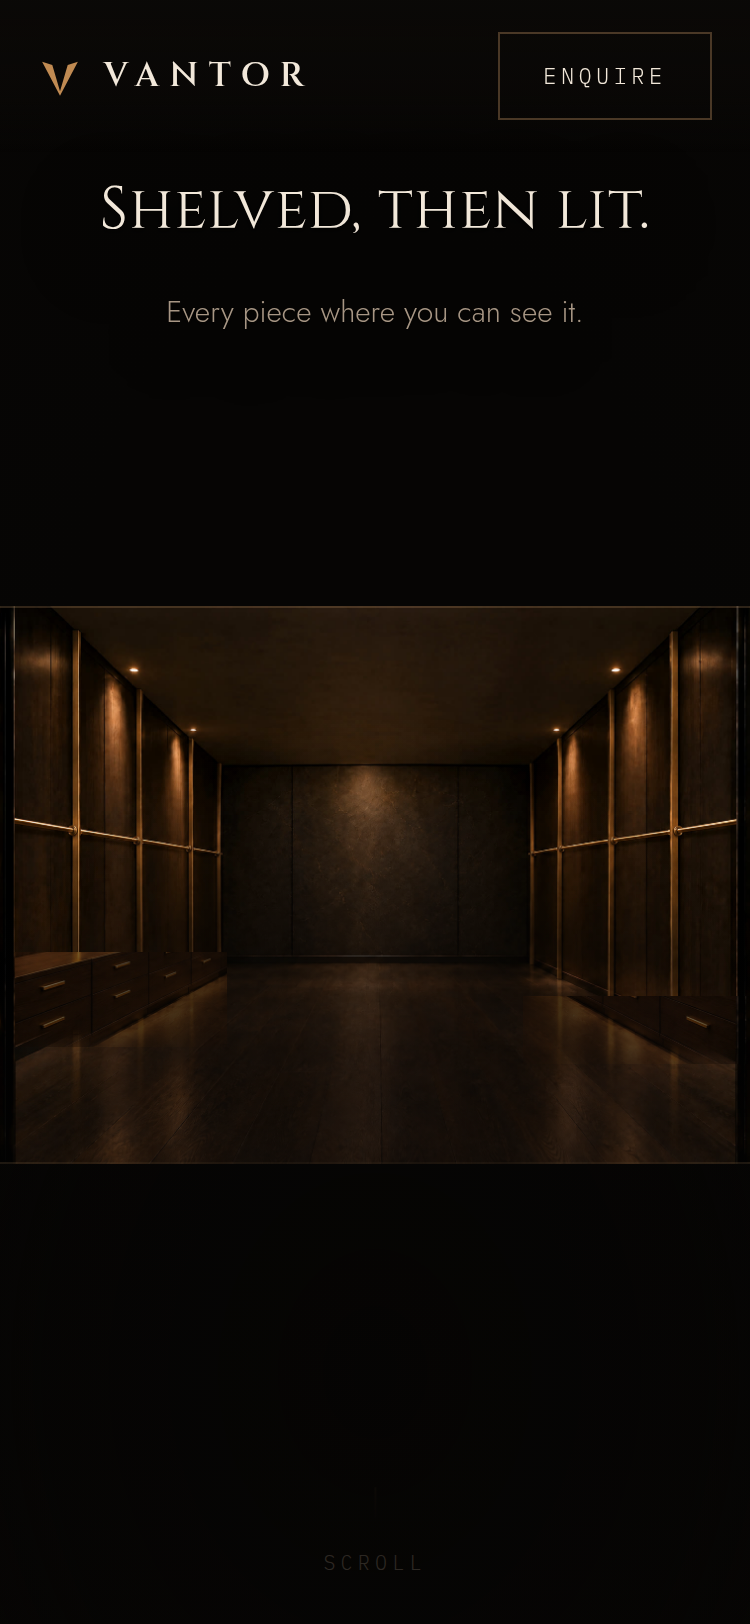
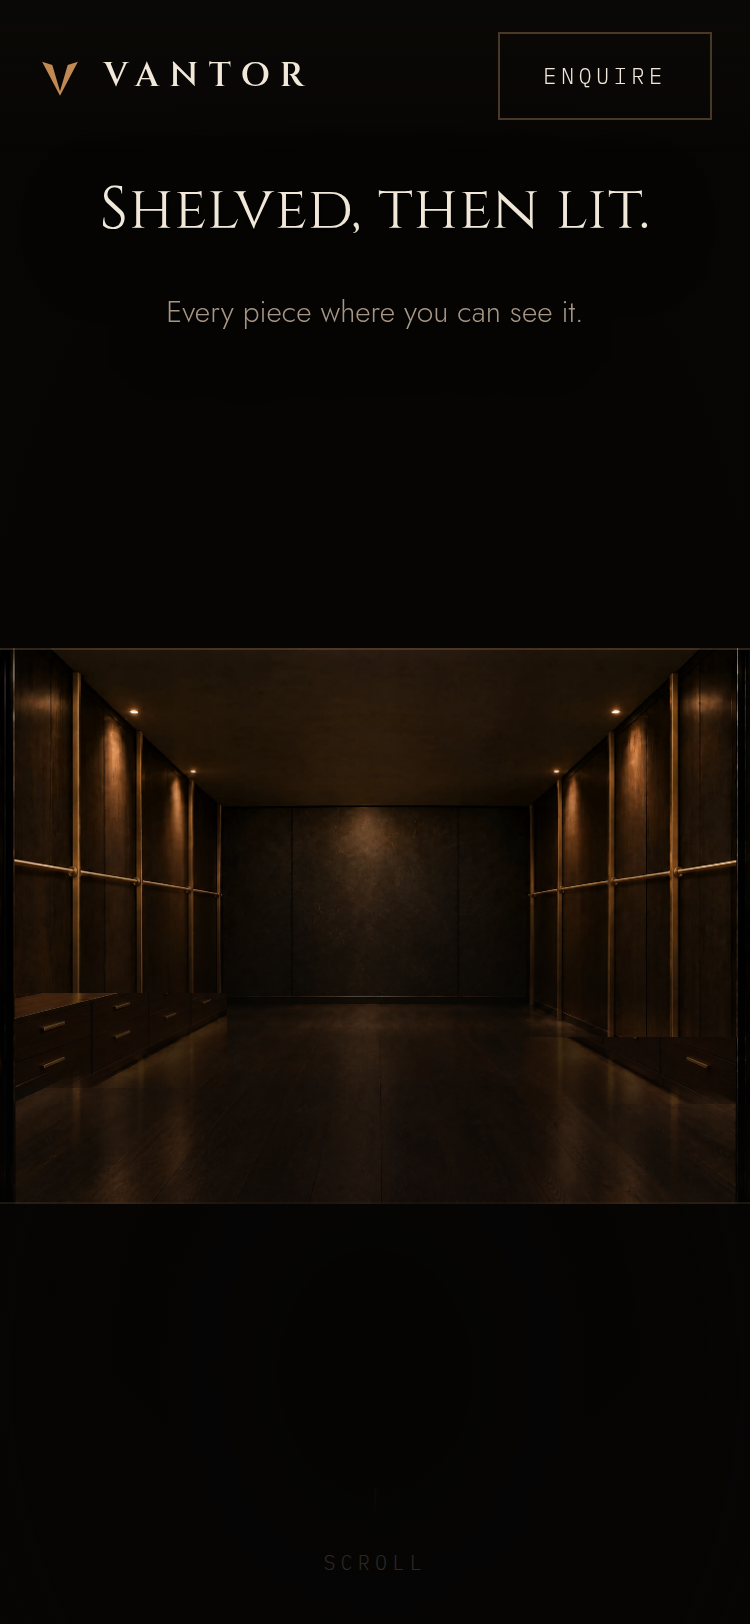
Close the hero on the VANTOR mark instead of a jacket count
The last beat now carries the V mark, VANTOR JACKETS set under it as a wordmark,
and the line the brand actually sells on. Tracking there is a wordmark's, wider
than the sentence headings above it, which is what makes it read as a mark
rather than one more caption. The mark lands first, then the wordmark, then the
line and the button, so the lockup assembles the way the room did.

The mark made the block 46px taller and the short phones lost the clearance they
had just been tuned for: 375 by 667 and 360 by 640 both ran the button back into
the top of the frame. The frame is dropped further on portrait to match, and the
mark set smaller on the shortest screens, so every phone clears both the nav and
the room again: 41px at 390 by 844, 32 at 375 by 667, 24 at 360 by 640.

The uppercase is applied in CSS, so the visually hidden copy the screen readers
actually read is left in sentence case, since some of them spell a CSS
uppercased string out letter by letter.

Measured after the change: one line at every width from 1440 down to 360 with no
overflow; contrast at every band's worst frame 4.95, 9.28, 10.35 and 9.68;
no beat skippable at 360px; reduced motion cold and live, rotation, the form,
the touch targets and all four viewports clean.

Claude-Session: https://claude.ai/code/session_01WyWRnk21ryLELjw3uFj7fK

diff --git a/site/index.html b/site/index.html
@@ -185,6 +185,17 @@ a{color:inherit}
 #b3 .soft{position:absolute;inset:0;filter:blur(11px);opacity:calc(1 - var(--k,0));pointer-events:none}
 #b3 .sharp{opacity:var(--k,0)}
 /* entrance (e) staged settle, band 4: three arrivals in one band */
+/* The closing beat is the brand lockup: the mark lands, the wordmark sets
+   under it, then the line and the button. Tracking here is a wordmark's, wider
+   than the sentence headings above it, which is what makes it read as a mark
+   rather than as one more caption. */
+#b4 .b4mark{--km:clamp(0,var(--k,0)*3.6,1);opacity:var(--km);
+  width:clamp(30px,4.2vw,48px);height:auto;display:block;margin:0 auto 16px;
+  transform:translateY(calc((1 - var(--km)) * -16px))}
+#b4 h2{letter-spacing:.075em;text-transform:uppercase}
+/* the uppercase is the mark's, not the word's: some screen readers spell a CSS
+   uppercased string letter by letter, and .vh is the copy they actually read */
+#b4 h2 .vh{text-transform:none;letter-spacing:normal}
 #b4 .w{--kc:clamp(0,(var(--k,0) - var(--th,0))*3,1);opacity:var(--kc);
   transform:translateY(calc((1 - var(--kc)) * 20px))}
 #b4 .sub{--ks:clamp(0,(var(--k,0) - .60)*3.6,1);opacity:var(--ks);
@@ -241,7 +252,7 @@ a{color:inherit}
    rails but keeps every jacket on screen, and move the copy off the room so the
    two stop fighting for the same space. */
 @media (max-aspect-ratio: 3/4){
-  .room-frame{width:132%;margin-top:9vh}
+  .room-frame{width:132%;margin-top:14vh}
   /* A 16:9 room on a tall phone letterboxes whatever you do, and widening it
      any further starts throwing the end jackets off the sides. So the frame is
      dropped to sit under the copy rather than floating in the middle of the
@@ -262,9 +273,10 @@ a{color:inherit}
    screen this has to hold. */
 @media (max-aspect-ratio: 3/4) and (max-height: 740px){
   .band,#b3,#b4{padding-top:14vh}
-  .room-frame{margin-top:21vh}
+  .room-frame{margin-top:30vh}
   .band .sub{margin-top:14px}
   #b4 .row{margin-top:18px}
+  #b4 .b4mark{width:26px;margin-bottom:10px}
 }
 
 .stageimg{position:absolute;inset:0;background-size:cover;background-position:center;
@@ -643,8 +655,9 @@ body.paused *,body.paused *::before,body.paused *::after{animation-play-state:pa
 
     <div class="band" id="b4" data-a="0.80" data-b="1">
       <div class="inner">
-        <h2 data-split="word"><span class="vh">Eleven jackets.</span><span class="vis" aria-hidden="true">Eleven jackets.</span></h2>
-        <p class="sub">Hung one at a time.</p>
+        <svg class="b4mark" viewBox="0 0 32 32" aria-hidden="true"><path d="M3 5.6l7.4 2.4L16 27l5.6-19L29 5.6 16 30.4z" fill="#C08A52"/></svg>
+        <h2 data-split="word"><span class="vh">VANTOR jackets</span><span class="vis" aria-hidden="true">VANTOR jackets</span></h2>
+        <p class="sub">Built for a bolder you.</p>
         <div class="row"><a class="btn btn-solid" href="#range">See them all</a></div>
       </div>
     </div>
